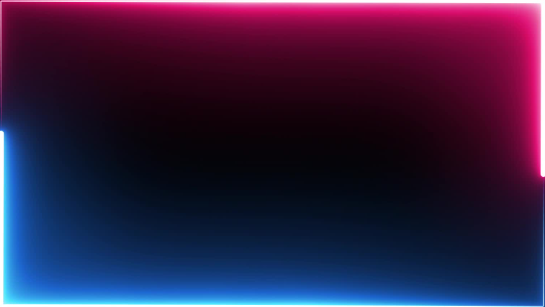
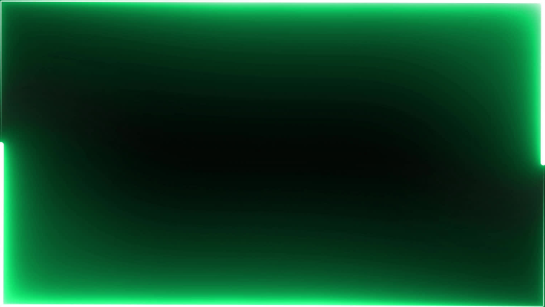
fondo juego

diff --git a/TPV2 VS Solution/Practica_2/src/game/RunningState.cpp b/TPV2 VS Solution/Practica_2/src/game/RunningState.cpp
@@ -61,20 +61,9 @@ void RunningState::update()
 		mngr->send(m,true);
 	}
 
-	/*antiguo update
-	//update de entidades
-	mngr->update();
+	SDL_Rect destinyRect{ 0,0,sdlutils().width(),sdlutils().height() };
 
-	//colision
-	collisions();
-
-	//render de todo
-	mngr->render();
-
-	//refresh del manager
-	mngr->refresh();
-	*/
-
+	sdlutils().images().at("playBackground").render(destinyRect);
 	
 	pacManSystem->update();
 	ghostSystem->update();
